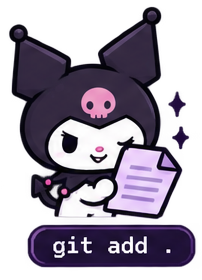
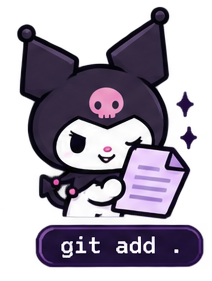
adicionado imagens ilustrativas

diff --git a/style.css b/style.css
@@ -48,8 +48,8 @@ body /* Estilizar o corpo da página com cores, fontes e altura mínima */ {
 .hero-copy { position: relative; z-index: 3; display: flex; align-items: center; gap: 16px; max-width: 760px;  }
 
 .section-icon {
-    width: 45px;
-    height: 45px;
+    width: 40px;
+    height: 40px;
     object-fit: contain;
 }
 
@@ -110,8 +110,8 @@ body /* Estilizar o corpo da página com cores, fontes e altura mínima */ {
 
 .hero-kuromi {
   position: absolute;
-  right: 10px;
-  bottom: -20px;
+  right: 0px; 
+  bottom: 0px;
   z-index: 4;
   width: 185px;
   height: 195px;
@@ -194,8 +194,8 @@ body /* Estilizar o corpo da página com cores, fontes e altura mínima */ {
   overflow: hidden;
   box-shadow: 6px 7px 0 rgba(43,26,60,.16);
 }
-.tip-character-wrap { position: relative; width: 175px; flex: 0 0 175px; height: 115px; }
-.tip-character { width: 115%; height: 115%; object-fit: contain; object-position: left bottom; }
+.tip-character-wrap { position: relative; width: 175px; flex: 0 0 200px; height: 115px; }
+.tip-character { width: 115%; height: 120%; object-fit: contain; object-position: left bottom; }
 .tip-bubble {
   position: absolute; top: -4px; right: 0;
   background: var(--pink-soft); color: var(--ink);
@@ -204,9 +204,9 @@ body /* Estilizar o corpo da página com cores, fontes e altura mínima */ {
 }
 .tip-icon { font-size: 38px; flex: 0 0 auto; }
 .tip-copy { flex: 1; }
-.tip-copy h3 { display: inline; color: var(--pink-soft); font-size: 28px; margin-right: 5px; }
+.tip-copy h3 { display: inline; color: var(--pink-soft); font-size: 30px; margin-right: 7px; }
 .tip-copy p { display: inline; font-size: 15px; line-height: 1.55; }
-.tip-copy p + p { display: block; margin-top: 4px; }
+.tip-copy p + p { display: block; margin-top: 10px; }
 .tip-copy code { background: var(--pink-soft); color: var(--ink); padding: 3px 7px; border-radius: 6px; font: 700 13px "JetBrains Mono", monospace; }
 .tip-decor { color: var(--pink); font-size: 24px; white-space: nowrap; }
 

diff --git a/index.html b/index.html
@@ -38,7 +38,7 @@
           <img src="assets/kuromi/kuromi-header.png" class="mini-kuromi" alt="">
           <h2>Comandos Essenciais</h2>
           <span class="rule"></span>
-          <span class="accent">♥ ✦</span>
+          <span class="accent"> <img src="assets/kuromi/kuromi-coracoezinhos.png" </span>
         </div>
 
         <div class="cards-grid">
@@ -120,10 +120,8 @@
           <p><code>pull</code> traz para o computador as alterações que estão no remoto.</p>
         </div>
 
-        <div class="tip-decor">
-          <img src="assets/Kuromi/kuromi-coracao.png" alt="" class="section-icon">
-          <img src="assets/Kuromi/kuromi-caveira.png" alt="" class="section-icon">
-          <img src="assets/Kuromi/kuromi-estrela.png" alt="" class="section-icon">
+        <div class="tip-character-wrap">
+          <img src="assets/Kuromi/kuromi-thinking.png" alt="Ilustração decorativa" class="tip-character">
         </div>
       </section>
     </main>
